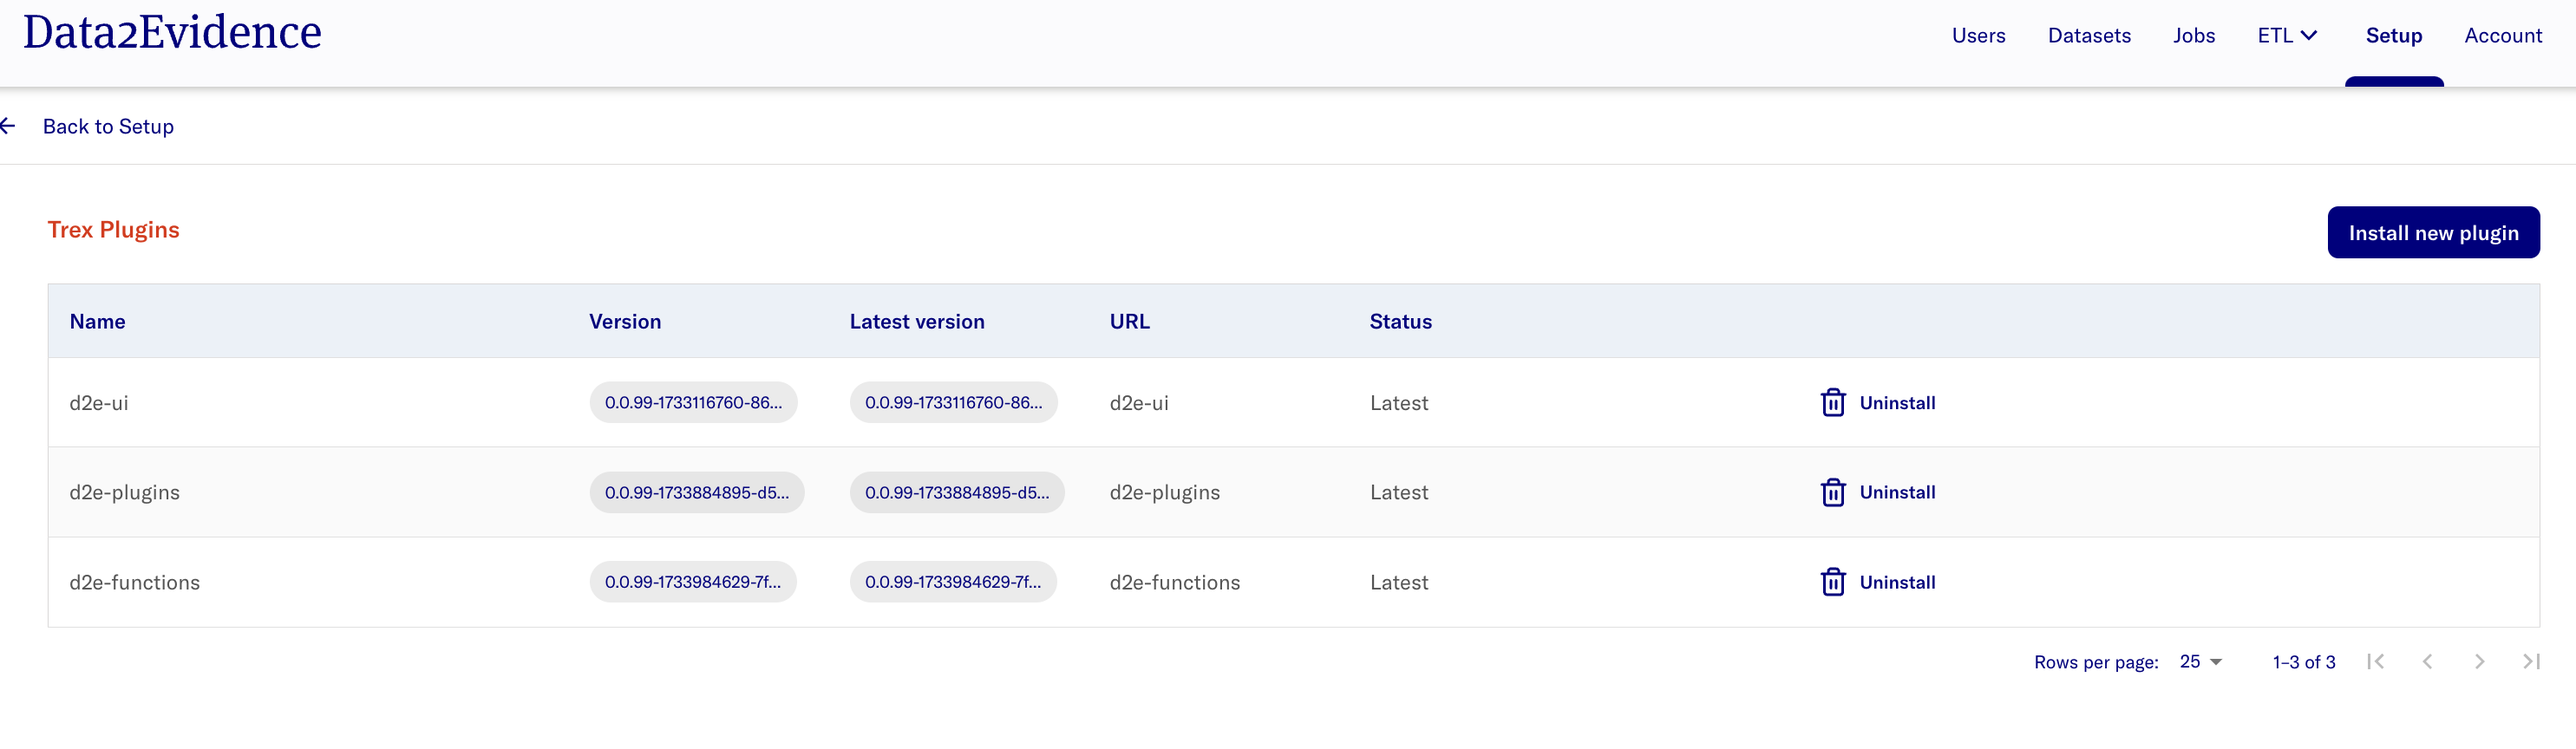
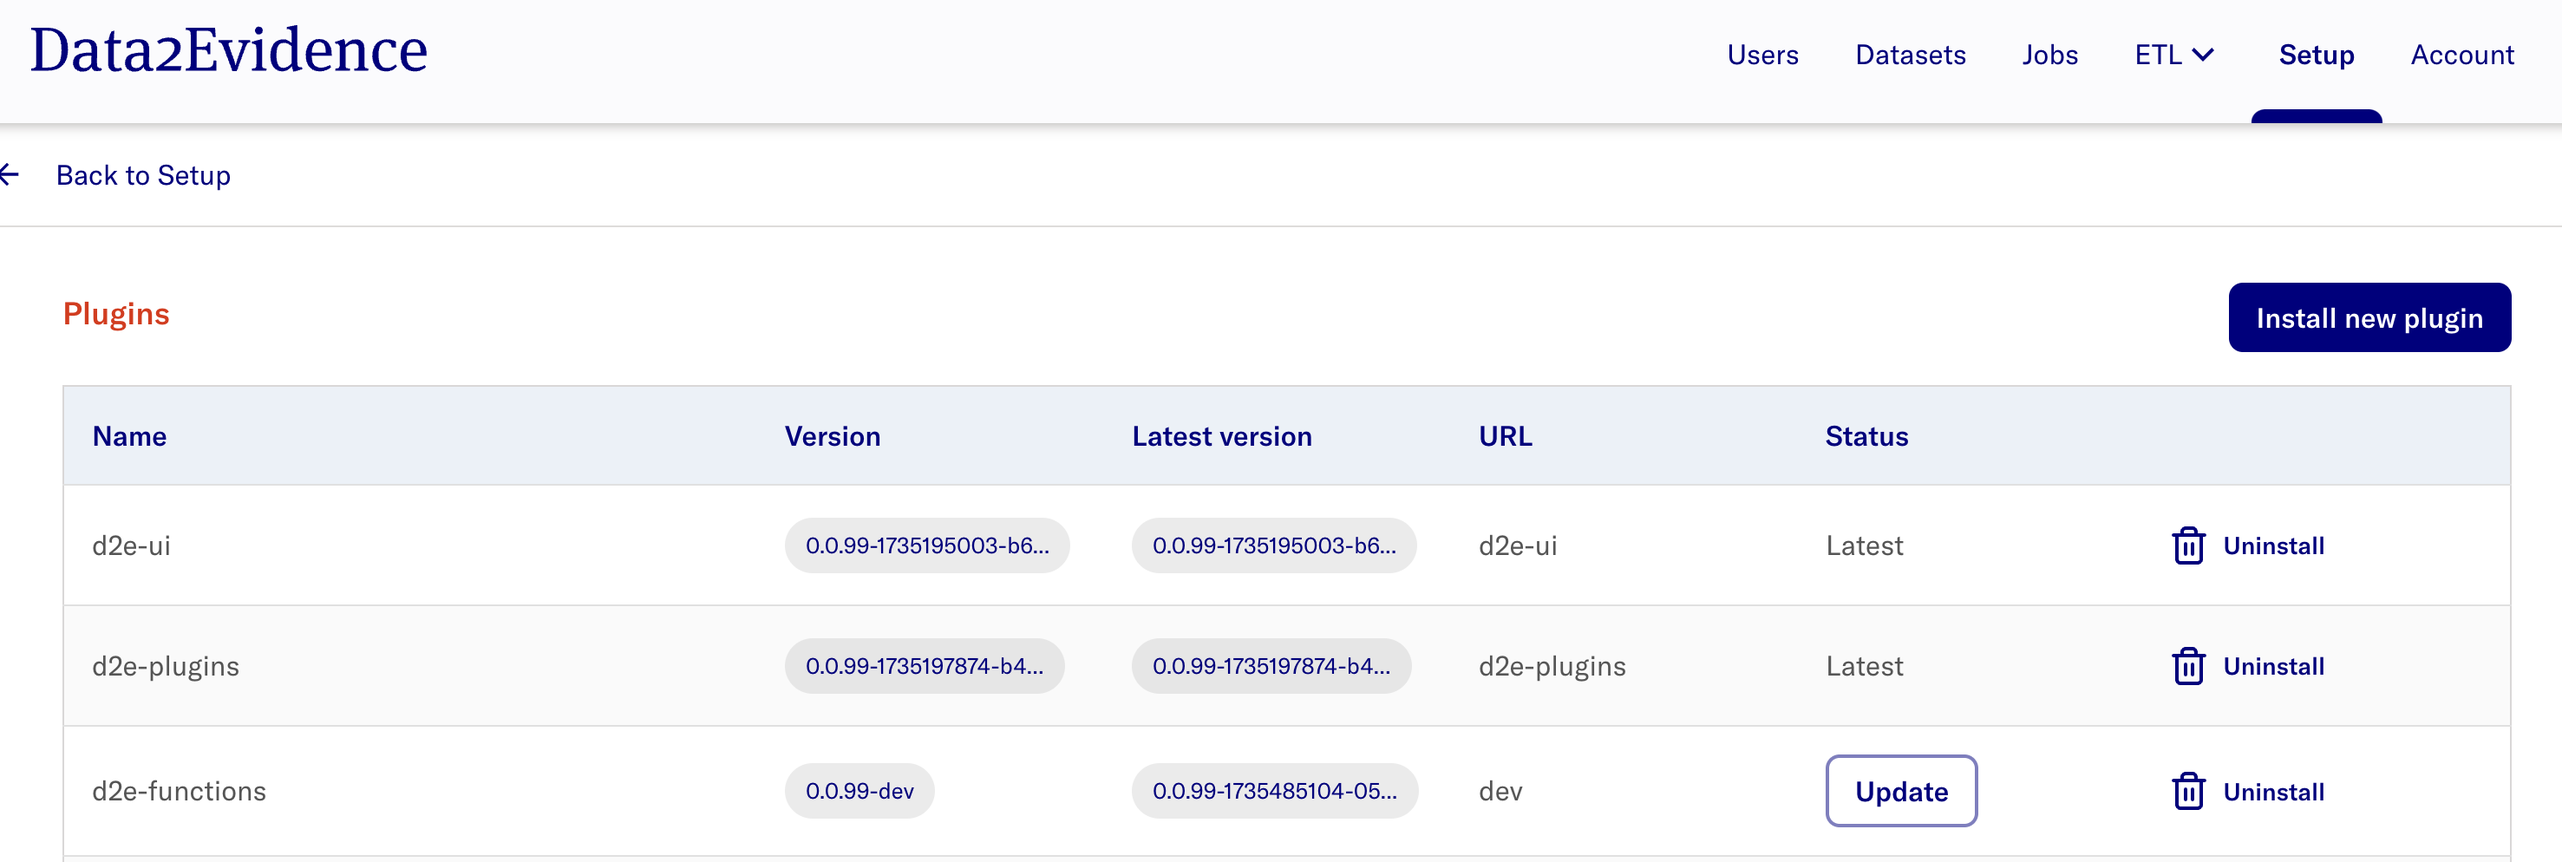
Edit OSS docs

diff --git a/docs/README_trex_overview.md b/docs/README_trex_overview.md
@@ -8,33 +8,28 @@ The following documentation outlines the basic setup of Analytics Platform (D2E)
 ## Pre-requisites
 1. Install pre-requisite softwares for running D2E. Refer to the installation guide [here](./1-setup/README.md). 
 2. Clone Github repository d2e in your terminal using the command: `git clone --branch develop https://github.com/alp-os/d2e.git`. 
-3. Clone Github repository d2e-plugins in your terminal using the command: `git clone --branch trex https://github.com/alp-os/d2e-plugins.git`. _(TODO - this step will be updated)_
-4. Request docker credentials from [D2E Support](#d2e-support) for authenticating to private docker registry to retrieve resources to run D2E.
+3. Request docker credentials from [D2E Support](#d2e-support) for authenticating to private docker registry to retrieve resources to run D2E.
 
 ## Environment Variables and Credentials Setup 
-5. Generate environment variables: `yarn gen:dotenv`
+4. Generate environment variables: `yarn gen:dotenv`
    - Refer [here](./1-setup/environment-variables.md) for more information on the environment variables generated.
-6. Append the following variables to the `env.local` file in the format:
-   - `GH_TOKEN=<your-Github-PAT-token>`. (Refer [here](./1-setup/README.md) for more info)
+5. Add the following variables to the `env.local` file in the format:
+   - `GH_TOKEN=<replace-with-credentials>`. (Refer [here](./1-setup/README.md) for more info)
    - `DATABASE_CREDENTIALS=[]` 
-7. Initialize Authentication Applications: `yarn init:logto`
+   - `DOCKER_REGISTRY_PASSWORD=<replace-with-credentials>`
+   - `DOCKER_REGISTRY_USERNAME=<replace-with-credentials>`
+6. Initialize Authentication Applications: `yarn init:logto`
 
 ## Application Setup
 
-In d2e-plugins repo, _(TODO - this step will be updated)_
-
-8. Run the command to build the neccessary docker images to run D2E plugins: `yarn build`. 
-
-In d2e repo, 
-
-9. Run the command to get the neccessary docker images to run D2E: `yarn build:minerva`
-10. Start/Restarting application: `yarn start:minerva; sleep 60`
-11. To view application logs: `yarn logs:minerva`
+Naviage to the folder where d2e repo is downloaded. Run the folllowing: 
+1. Run the command to get the neccessary docker images to run D2E: `yarn build:minerva`
+2. Start/Restarting application: `yarn start:minerva; sleep 60`
+3. (For debugging) To view application logs: `yarn logs:minerva`
 
 > **Note:**
 > - If you are starting the application for first time and/or if docker volume resources have been completely removed, re-run the **Environment Variables and Credentials Setup** section
 > - If you have setup the application before, run steps in section **Application Setup** as required.
-
 
 # D2E Guide 
 ## Authentication Portal
@@ -57,15 +52,18 @@ The Admin Portal allows authorized personnel to login and perform the management
 > **The expected display is:**
 > ![AdminPortal](./images/portal/AdminPortal.png)
 
-- For quick access to the Admin Portal, input URL https://localhost:41100/portal/systemadmin/user-overview in the search bar.
-- Refer to the [documentation here](./2-load/2-users-roles.md) to perform user management. 
 
+Additional info:
+- [Performing password change](./2-load/1-initial-admin.md)
+- [Performing user management](./2-load/2-users-roles.md)
+
+> Tip: For quick access to the Admin Portal, input URL https://localhost:41100/portal/systemadmin/user-overview in the search bar.
 
 ## Adding Existing Databases
 
 This sections assumes that there is an existing database available. The database should be in a Postgres docker container name or external database with a Fully Qualified Domain Name (FQDN).
 
-If there is no existing databases available, you may consider using a [sample dataset](./2-load/), and perform sub-steps 3 to 7 to setup the database. Thereafter, you may continue to follow the guide from section [Plugins](#plugins) onwards.
+If there is no existing databases available, you may consider using a [sample dataset](./2-load/), and perform sub-steps [3](./2-load/3-setup-pg-permissions.md), [4](./2-load/4-setup-db-credentials.md), [6](./2-load/6-load-synpuf1k.md) and [7](./2-load/7-load-vocab.md) to setup the database. Thereafter, you may continue to follow the guide from section [Plugins](#plugins) onwards.
 
 
 - In the Admin Portal, navigate to **Setup** > **Databases** > **Configure** > **Add database**
@@ -77,11 +75,10 @@ If there is no existing databases available, you may consider using a [sample da
 
 
 ## Plugins 
-The Admin portal allows the admin user to manage plugins in the platform, for instance installation, update and uninstallation of plugins. 
-- In the Admin Portal, navigate to **Setup** > **Trex Plugins** > **Configure**
+The Admin portal allows the admin user to manage plugins in the platform, for instance installation, version updates and uninstallation of plugins. 
+- In the Admin Portal, navigate to **Setup** > **Plugins** > **Configure**
   >**The expected display is:**![PluginTable](./images/plugins/PluginTable.png)
 
-- Refer to the [documentation here](./2-load/5-load-d2e-plugins.md) for more information on plugins.
 
 ## Jobs Portal
 The Admin portal allows the admin user to perform customized and scheduled job runs from [plugins](#plugins) that have been installed.

diff --git a/docs/2-load/6-load-synpuf1k.md b/docs/2-load/6-load-synpuf1k.md
@@ -104,12 +104,12 @@ docker exec -it alp-dataflow-gen-worker prefect deployment run data_load_plugin/
 ```
 - Docker container logs can be checked with the bash command `docker logs --tail 100 alp-dataflow-gen-worker`
 - Once the flow is completed, the container logs the message "Finished in state Completed()"
-```
-- Confirm data loaded with 
+- Confirm data loaded with the following command:
 ```
 docker exec -it alp-minerva-postgres-1 psql -h localhost -U postgres -p 5432 -d alpdev_pg --command "SELECT schemaname as table_schema,relname as table_name,n_live_tup as table_rows FROM pg_stat_user_tables where schemaname='cdmdefault' ORDER BY n_live_tup DESC limit 17;"
 ```
-- Expect output to be:
+
+- Expected output:
 ```
  table_schema |      table_name      | table_rows 
 --------------+----------------------+------------

diff --git a/docs/2-load/4-setup-db-credentials.md b/docs/2-load/4-setup-db-credentials.md
@@ -36,6 +36,6 @@ notes:
 
 Run the following command to restart the system for the new connection details be provisioned to the data services
 ```
-yarn start:minerva --wait --force-recreate
+yarn start:minerva --force-recreate
 ```
 
